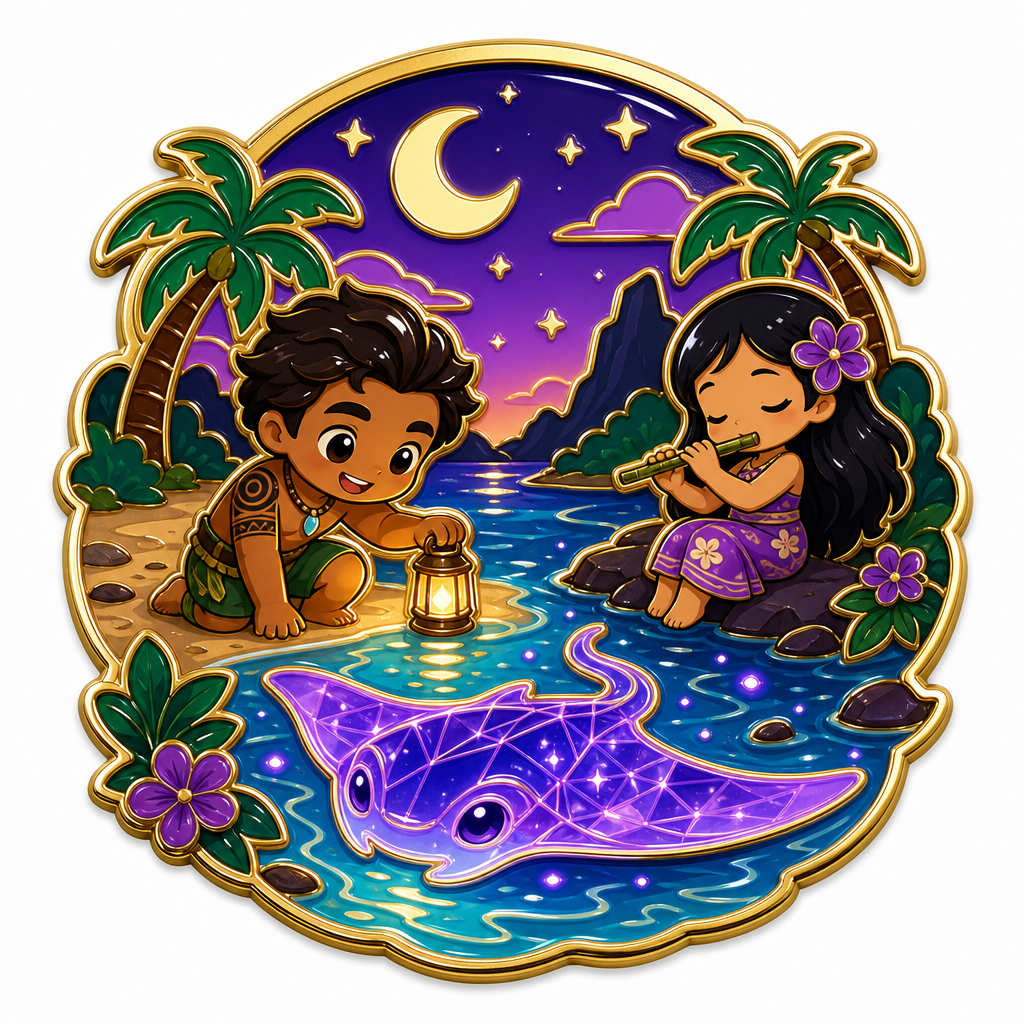
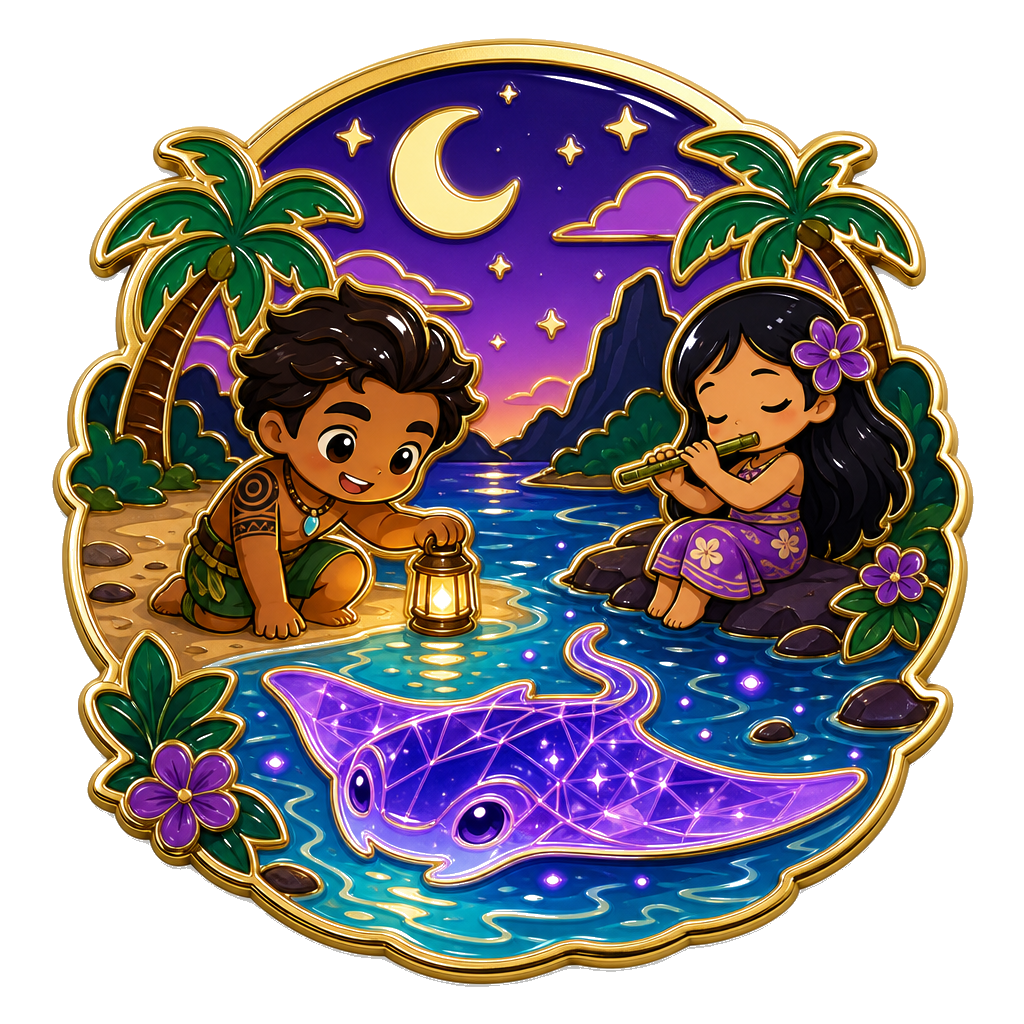
feat: 盲盒badge弹窗功能
- 添加弹窗data属性（name/tag/cond/desc/img/locked）
- 添加7天的description内容
- 图片去白底处理
- cursor:pointer样式

diff --git a/src/kid_app/templates/achievements.html b/src/kid_app/templates/achievements.html
@@ -270,6 +270,7 @@
       overflow: hidden;
       position: relative;
       transition: transform 0.3s ease, box-shadow 0.3s ease;
+      cursor: pointer;
     }
 
     .blindbox-badge:hover {

diff --git a/src/kid_app/app.py b/src/kid_app/app.py
@@ -565,11 +565,37 @@ def _daily_blindbox_html():
         7: "🗺 终极神话",
     }
 
+    # 盲盒描述
+    DAILY_CHECKIN_DESCS = {
+        1: "ok哥每天赶海第一件事不是看潮水，是看桶——今天桶空着，大海准备了什么？他刚弯腰，一只粉色河豚\"噗\"地蹦进桶里，气得圆滚滚的，像个生气的汤圆。ok哥说：\"哟，这河豚气鼓鼓的，跟我周一早上不想起床的样子一模一样！\"你周一打卡，河豚就是你的开工信号——它虽然气鼓鼓的，但它来了，就说明大海今天给你留了惊喜！",
+        2: "ok哥最爱的词就是\"爆桶\"——桶装满了叫爆桶，桶装太满了也叫爆桶，桶里跳出一只大螃蟹还叫爆桶。今天他从沙子里拽出一只拳头大的红螃蟹，螃蟹死活不肯松钳，一夹——正好夹住YoYo的笛梢！YoYo使劲拔笛子，螃蟹使劲夹笛子，ok哥在旁边不帮忙，光顾着喊：\"大货！大货！别动让我拍！\"你周二打卡，这只螃蟹就是你的——它夹着你的笛子不放，就像你坚持练笛不放弃一样！",
+        3: "ok哥抓过无数海鲜，但章鱼是他一生的对手。上次他抓了一只，章鱼八条腿分别吸在他的帽子、眼镜、桶、YoYo的笛子上，还剩三条腿悠闲地给自己扇风。ok哥说：\"这哥们比我还能抓——它把我抓住了！\"你周三打卡，章鱼就是你的\"周中恶魔\"——练笛练到周三最累了，这只章鱼就像你的疲惫，缠着你不放，但你看ok哥笑成那样，就知道其实它也是你的开心果！",
+        4: "赶海最浪漫的时刻不是抓到大货，是你在海边捡到一枚海螺，贴到耳朵上——\"呜——\"，里面好像藏着整片大海的声音。ok哥说：\"我赶海十几年，海螺听过无数，但没有一个像今天这枚——它里面传出来的不是海浪声，是笛声！\"他把海螺递给YoYo，YoYo贴到耳朵上，里面飘出了彩虹色的乐谱。你周四打卡，这枚极光海螺就是你的回声——你吹进去的每一个音符，大海都记住了！",
+        5: "周五了！ok哥说：\"赶海一整周，今天该开大奖了！\"他一铲子下去，沙子里蹦出一个金灿灿的宝箱，打开一看——不是金币，不是珍珠，是一枚比脸还大的黄金海星和一本发光的乐谱！ok哥愣了一秒，然后对着镜头比了个\"OK\"：\"收货！比爆桶还爽！\"你周五打卡，放学了大解放，宝箱为你打开，这周最亮的奖励归你！",
+        6: "ok哥赶海赶了一周，今晚他决定来点不一样的——夜赶海！手电筒一开，海面突然浮起一只半透明的魔鬼鱼，浑身发着梦幻紫光，像一片会飞的光。ok哥说：\"我赶海这么多年，夜光的见过不少，但会跟着笛声游的我头一回见！\"YoYo开始吹笛，魔鬼鱼真的跟着笛声的节奏游。你周六打卡，夜光魔鬼鱼为你亮起来——周末的夜晚，笛声和荧光交织，这是属于你的深海演唱会！",
+        7: "ok哥换上了他的船长服——虽然这衣服他自己都忘了什么时候买的，但他说：\"大结局必须有仪式感！\"海浪突然退去，沙滩上浮现出一个蓝色光环，一条由海水聚成的小神龙从光环中腾空而起，嘴里叼着一个玻璃漂流瓶。ok哥说：\"我赶了一辈子海，今天终于赶到了龙！\"瓶子里面是一张金色的乐谱，是这周你吹过的所有曲子的终极合集。你周日打卡，一周完美收官，神龙亲自给你颁奖！",
+    }
+
+    # 盲盒条件描述
+    DAILY_CHECKIN_CONDS = {
+        1: "完成今日练习即可解锁",
+        2: "完成今日练习即可解锁",
+        3: "完成今日练习即可解锁",
+        4: "完成今日练习即可解锁",
+        5: "完成今日练习即可解锁",
+        6: "完成今日练习即可解锁",
+        7: "完成今日练习即可解锁",
+    }
+
     today_image = DAILY_CHECKIN_IMAGES.get(stage_day, "")
     today_name = DAILY_CHECKIN_NAMES.get(stage_day, "")
+    today_desc = DAILY_CHECKIN_DESCS.get(stage_day, "")
+    today_cond = DAILY_CHECKIN_CONDS.get(stage_day, "")
     checked_class = "unlocked" if today_checked else "locked"
     today_class = "today" if not today_checked else ""
+    locked_flag = "no" if today_checked else "yes"
 
+    import html as _html
     html = f"""
     <div class="ac-card" id="card-daily-blindbox">
       <div class="blindbox-header">
@@ -582,8 +608,16 @@ def _daily_blindbox_html():
       </div>
       
       <div class="blindbox-badge-container">
-        <div class="blindbox-badge {checked_class} {today_class}" id="today-badge" 
-             data-checkin-days="{checkin_days}">
+        <div class="blindbox-badge {checked_class} {today_class} b-card" id="today-badge" 
+             data-checkin-days="{checkin_days}"
+             data-id="daily_checkin_{stage_day}"
+             data-name="{_html.escape(today_name)}"
+             data-tag="突破"
+             data-cond="{_html.escape(today_cond)}"
+             data-desc="{_html.escape(today_desc)}"
+             data-img="{_html.escape(today_image)}"
+             data-locked="{locked_flag}"
+             onclick="openModal(this)">
           <img src="{today_image}" alt="{today_name}" class="blindbox-img">
           <div class="blindbox-day-label">第{stage_day}天</div>
         </div>
